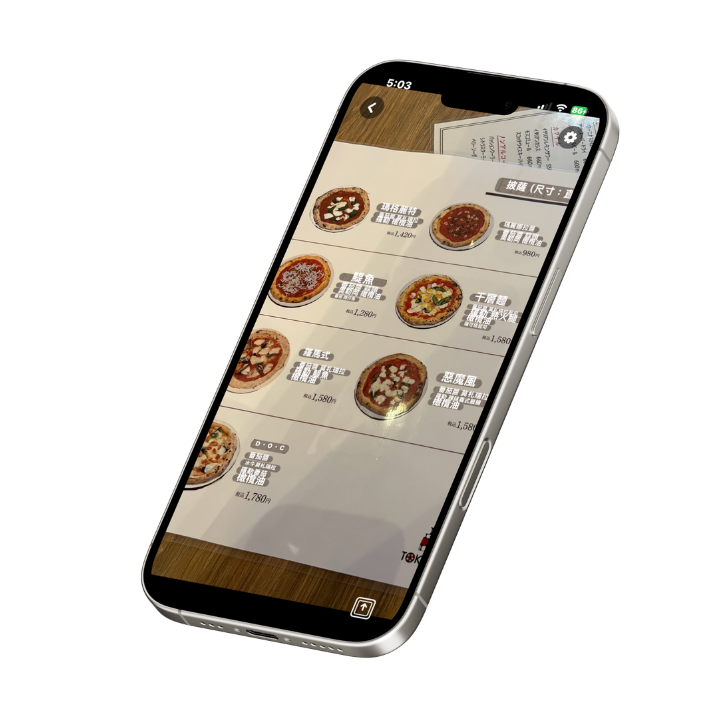
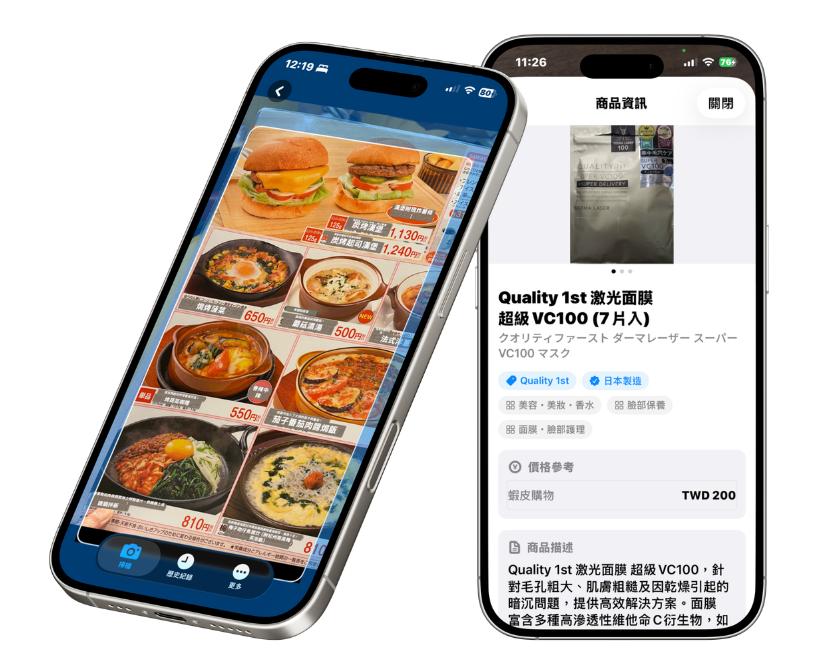
Modify : update home page JScan product

diff --git a/index.html b/index.html
@@ -618,7 +618,7 @@
       <a href="https://junlando.com/kumamap" target="_blank">熊出沒地圖</a>
       <a href="https://junlando.com/blossom" target="_blank">日本花卉預測地圖</a>
       <a href="https://apps.apple.com/tw/app/id6760274304" target="_blank">一拍即分</a>
-      <a href="https://apps.apple.com/us/app/id6742044545" target="_blank">菜單藥妝翻譯</a>
+      <a href="https://apps.apple.com/us/app/id6742044545" target="_blank">JScan</a>
     </div>
   </div>
   <a href="/about/">關於我們</a>
@@ -731,8 +731,8 @@
   </div>
   <div class="ps-card-wrap">
     <div class="ps-card">
-      <h2>菜單藥妝翻譯</h2>
-      <p>日本旅遊必備！看不懂日文菜單、藥妝成分嗎？只要隨手一拍，就能自動辨識並立即顯示中文說明，讓你出國安心點餐、放心購物！</p>
+      <h2>JScan</h2>
+      <p>日本旅遊必備！看不懂日文菜單、藥妝成分？想知道商品在哪裡買最划算？只要隨手一拍或掃描條碼，就能自動翻譯說明、即時比價，讓你出國安心點餐、聰明購物！</p>
       <div class="btn-row">
         <a href="#" class="btn btn-orange" data-ios="https://apps.apple.com/us/app/id6742044545" data-android="https://play.google.com/store/apps/details?id=com.junlando.japanmenu" onclick="return openAppStore(this)" target="_blank" rel="noopener">APP 下載</a>
       </div>
@@ -751,7 +751,7 @@
       <a href="https://junlando.com/kumamap" target="_blank">熊出沒地圖</a>
       <a href="https://junlando.com/blossom" target="_blank">日本花卉預測地圖</a>
       <a href="https://apps.apple.com/tw/app/id6760274304" target="_blank">一拍即分</a>
-      <a href="https://apps.apple.com/us/app/id6742044545" target="_blank">菜單藥妝翻譯</a>
+      <a href="https://apps.apple.com/us/app/id6742044545" target="_blank">JScan</a>
     </div>
     <div class="footer-col">
       <h3>公司</h3>

diff --git a/ja/index.html b/ja/index.html
@@ -593,7 +593,7 @@
       <a href="https://junlando.com/kumamap" target="_blank">クマ出没マップ</a>
       <a href="https://junlando.com/blossom/ja/" target="_blank">日本花の予測マップ</a>
       <a href="https://apps.apple.com/tw/app/id6760274304" target="_blank">パシャッと割り勘</a>
-      <a href="https://apps.apple.com/us/app/id6742044545" target="_blank">メニュー・薬局翻訳</a>
+      <a href="https://apps.apple.com/us/app/id6742044545" target="_blank">JScan</a>
     </div>
   </div>
   <a href="/ja/about/">会社概要</a>
@@ -704,8 +704,8 @@
   </div>
   <div class="ps-card-wrap">
     <div class="ps-card">
-      <h2>メニュー・薬局翻訳</h2>
-      <p>日本旅行の必須アイテム！メニューや薬局の成分表が読めなくても大丈夫。写真を撮るだけで自動認識し、中国語で説明を表示。安心して注文・お買い物を楽しめます。</p>
+      <h2>JScan</h2>
+      <p>日本旅行の必須アイテム！メニューや薬局の成分表を撮影するだけで自動翻訳。さらにバーコードをスキャンすれば、商品の最安値を瞬時に比較。安心して注文・賢くお買い物！</p>
       <div class="btn-row">
         <a href="#" class="btn btn-orange" data-ios="https://apps.apple.com/us/app/id6742044545" data-android="https://play.google.com/store/apps/details?id=com.junlando.japanmenu" onclick="return openAppStore(this)">アプリDL</a>
       </div>
@@ -724,7 +724,7 @@
       <a href="https://junlando.com/kumamap" target="_blank">クマ出没マップ</a>
       <a href="https://junlando.com/blossom/ja/" target="_blank">日本花の予測マップ</a>
       <a href="https://apps.apple.com/tw/app/id6760274304" target="_blank">パシャッと割り勘</a>
-      <a href="https://apps.apple.com/us/app/id6742044545" target="_blank">メニュー・薬局翻訳</a>
+      <a href="https://apps.apple.com/us/app/id6742044545" target="_blank">JScan</a>
     </div>
     <div class="footer-col">
       <h3>会社情報</h3>

diff --git a/about/index.html b/about/index.html
@@ -231,7 +231,7 @@
       <a href="https://junlando.com/kumamap" target="_blank">熊出沒地圖</a>
       <a href="https://junlando.com/blossom" target="_blank">日本花卉預測地圖</a>
       <a href="https://apps.apple.com/tw/app/id6760274304" target="_blank">一拍即分</a>
-      <a href="https://apps.apple.com/us/app/id6742044545" target="_blank">菜單藥妝翻譯</a>
+      <a href="https://apps.apple.com/us/app/id6742044545" target="_blank">JScan</a>
     </div>
   </div>
   <a href="/about/">關於我們</a>
@@ -273,7 +273,7 @@
       <a href="https://junlando.com/kumamap" target="_blank">熊出沒地圖</a>
       <a href="https://junlando.com/blossom" target="_blank">日本花卉預測地圖</a>
       <a href="https://apps.apple.com/tw/app/id6760274304" target="_blank">一拍即分</a>
-      <a href="https://apps.apple.com/us/app/id6742044545" target="_blank">菜單藥妝翻譯</a>
+      <a href="https://apps.apple.com/us/app/id6742044545" target="_blank">JScan</a>
     </div>
     <div class="footer-col">
       <h3>公司</h3>

diff --git a/contact/index.html b/contact/index.html
@@ -236,7 +236,7 @@
       <a href="https://junlando.com/kumamap" target="_blank">熊出沒地圖</a>
       <a href="https://junlando.com/blossom" target="_blank">日本花卉預測地圖</a>
       <a href="https://apps.apple.com/tw/app/id6760274304" target="_blank">一拍即分</a>
-      <a href="https://apps.apple.com/us/app/id6742044545" target="_blank">菜單藥妝翻譯</a>
+      <a href="https://apps.apple.com/us/app/id6742044545" target="_blank">JScan</a>
     </div>
   </div>
   <a href="/about/">關於我們</a>
@@ -290,7 +290,7 @@
       <a href="https://junlando.com/kumamap" target="_blank">熊出沒地圖</a>
       <a href="https://junlando.com/blossom" target="_blank">日本花卉預測地圖</a>
       <a href="https://apps.apple.com/tw/app/id6760274304" target="_blank">一拍即分</a>
-      <a href="https://apps.apple.com/us/app/id6742044545" target="_blank">菜單藥妝翻譯</a>
+      <a href="https://apps.apple.com/us/app/id6742044545" target="_blank">JScan</a>
     </div>
     <div class="footer-col">
       <h3>公司</h3>

diff --git a/ja/about/index.html b/ja/about/index.html
@@ -231,7 +231,7 @@
       <a href="https://junlando.com/kumamap" target="_blank">クマ出没マップ</a>
       <a href="https://junlando.com/blossom" target="_blank">日本花の予測マップ</a>
       <a href="https://apps.apple.com/tw/app/id6760274304" target="_blank">パシャッと割り勘</a>
-      <a href="https://apps.apple.com/us/app/id6742044545" target="_blank">メニュー・薬局翻訳</a>
+      <a href="https://apps.apple.com/us/app/id6742044545" target="_blank">JScan</a>
     </div>
   </div>
   <a href="/ja/about/">会社概要</a>
@@ -273,7 +273,7 @@
       <a href="https://junlando.com/kumamap" target="_blank">クマ出没マップ</a>
       <a href="https://junlando.com/blossom" target="_blank">日本花の予測マップ</a>
       <a href="https://apps.apple.com/tw/app/id6760274304" target="_blank">パシャッと割り勘</a>
-      <a href="https://apps.apple.com/us/app/id6742044545" target="_blank">メニュー・薬局翻訳</a>
+      <a href="https://apps.apple.com/us/app/id6742044545" target="_blank">JScan</a>
     </div>
     <div class="footer-col">
       <h3>会社情報</h3>

diff --git a/ja/contact/index.html b/ja/contact/index.html
@@ -236,7 +236,7 @@
       <a href="https://junlando.com/kumamap" target="_blank">クマ出没マップ</a>
       <a href="https://junlando.com/blossom" target="_blank">日本花の予測マップ</a>
       <a href="https://apps.apple.com/tw/app/id6760274304" target="_blank">パシャッと割り勘</a>
-      <a href="https://apps.apple.com/us/app/id6742044545" target="_blank">メニュー・薬局翻訳</a>
+      <a href="https://apps.apple.com/us/app/id6742044545" target="_blank">JScan</a>
     </div>
   </div>
   <a href="/ja/about/">会社概要</a>
@@ -287,7 +287,7 @@
       <a href="https://junlando.com/kumamap" target="_blank">クマ出没マップ</a>
       <a href="https://junlando.com/blossom" target="_blank">日本花の予測マップ</a>
       <a href="https://apps.apple.com/tw/app/id6760274304" target="_blank">パシャッと割り勘</a>
-      <a href="https://apps.apple.com/us/app/id6742044545" target="_blank">メニュー・薬局翻訳</a>
+      <a href="https://apps.apple.com/us/app/id6742044545" target="_blank">JScan</a>
     </div>
     <div class="footer-col">
       <h3>会社情報</h3>

diff --git a/ja/privacy/index.html b/ja/privacy/index.html
@@ -199,7 +199,7 @@
       <a href="https://junlando.com/kumamap" target="_blank">クマ出没マップ</a>
       <a href="https://junlando.com/blossom" target="_blank">日本花の予測マップ</a>
       <a href="https://apps.apple.com/tw/app/id6760274304" target="_blank">パシャッと割り勘</a>
-      <a href="https://apps.apple.com/us/app/id6742044545" target="_blank">メニュー・薬局翻訳</a>
+      <a href="https://apps.apple.com/us/app/id6742044545" target="_blank">JScan</a>
     </div>
   </div>
   <a href="/ja/about/">会社概要</a>
@@ -267,7 +267,7 @@
       <a href="https://junlando.com/kumamap" target="_blank">クマ出没マップ</a>
       <a href="https://junlando.com/blossom" target="_blank">日本花の予測マップ</a>
       <a href="https://apps.apple.com/tw/app/id6760274304" target="_blank">パシャッと割り勘</a>
-      <a href="https://apps.apple.com/us/app/id6742044545" target="_blank">メニュー・薬局翻訳</a>
+      <a href="https://apps.apple.com/us/app/id6742044545" target="_blank">JScan</a>
     </div>
     <div class="footer-col">
       <h3>会社情報</h3>

diff --git a/ja/terms/index.html b/ja/terms/index.html
@@ -199,7 +199,7 @@
       <a href="https://junlando.com/kumamap" target="_blank">クマ出没マップ</a>
       <a href="https://junlando.com/blossom" target="_blank">日本花の予測マップ</a>
       <a href="https://apps.apple.com/tw/app/id6760274304" target="_blank">パシャッと割り勘</a>
-      <a href="https://apps.apple.com/us/app/id6742044545" target="_blank">メニュー・薬局翻訳</a>
+      <a href="https://apps.apple.com/us/app/id6742044545" target="_blank">JScan</a>
     </div>
   </div>
   <a href="/ja/about/">会社概要</a>
@@ -273,7 +273,7 @@
       <a href="https://junlando.com/kumamap" target="_blank">クマ出没マップ</a>
       <a href="https://junlando.com/blossom" target="_blank">日本花の予測マップ</a>
       <a href="https://apps.apple.com/tw/app/id6760274304" target="_blank">パシャッと割り勘</a>
-      <a href="https://apps.apple.com/us/app/id6742044545" target="_blank">メニュー・薬局翻訳</a>
+      <a href="https://apps.apple.com/us/app/id6742044545" target="_blank">JScan</a>
     </div>
     <div class="footer-col">
       <h3>会社情報</h3>

diff --git a/privacy/index.html b/privacy/index.html
@@ -199,7 +199,7 @@
       <a href="https://junlando.com/kumamap" target="_blank">熊出沒地圖</a>
       <a href="https://junlando.com/blossom" target="_blank">日本花卉預測地圖</a>
       <a href="https://apps.apple.com/tw/app/id6760274304" target="_blank">一拍即分</a>
-      <a href="https://apps.apple.com/us/app/id6742044545" target="_blank">菜單藥妝翻譯</a>
+      <a href="https://apps.apple.com/us/app/id6742044545" target="_blank">JScan</a>
     </div>
   </div>
   <a href="/about/">關於我們</a>
@@ -267,7 +267,7 @@
       <a href="https://junlando.com/kumamap" target="_blank">熊出沒地圖</a>
       <a href="https://junlando.com/blossom" target="_blank">日本花卉預測地圖</a>
       <a href="https://apps.apple.com/tw/app/id6760274304" target="_blank">一拍即分</a>
-      <a href="https://apps.apple.com/us/app/id6742044545" target="_blank">菜單藥妝翻譯</a>
+      <a href="https://apps.apple.com/us/app/id6742044545" target="_blank">JScan</a>
     </div>
     <div class="footer-col">
       <h3>公司</h3>

diff --git a/terms/index.html b/terms/index.html
@@ -199,7 +199,7 @@
       <a href="https://junlando.com/kumamap" target="_blank">熊出沒地圖</a>
       <a href="https://junlando.com/blossom" target="_blank">日本花卉預測地圖</a>
       <a href="https://apps.apple.com/tw/app/id6760274304" target="_blank">一拍即分</a>
-      <a href="https://apps.apple.com/us/app/id6742044545" target="_blank">菜單藥妝翻譯</a>
+      <a href="https://apps.apple.com/us/app/id6742044545" target="_blank">JScan</a>
     </div>
   </div>
   <a href="/about/">關於我們</a>
@@ -273,7 +273,7 @@
       <a href="https://junlando.com/kumamap" target="_blank">熊出沒地圖</a>
       <a href="https://junlando.com/blossom" target="_blank">日本花卉預測地圖</a>
       <a href="https://apps.apple.com/tw/app/id6760274304" target="_blank">一拍即分</a>
-      <a href="https://apps.apple.com/us/app/id6742044545" target="_blank">菜單藥妝翻譯</a>
+      <a href="https://apps.apple.com/us/app/id6742044545" target="_blank">JScan</a>
     </div>
     <div class="footer-col">
       <h3>公司</h3>